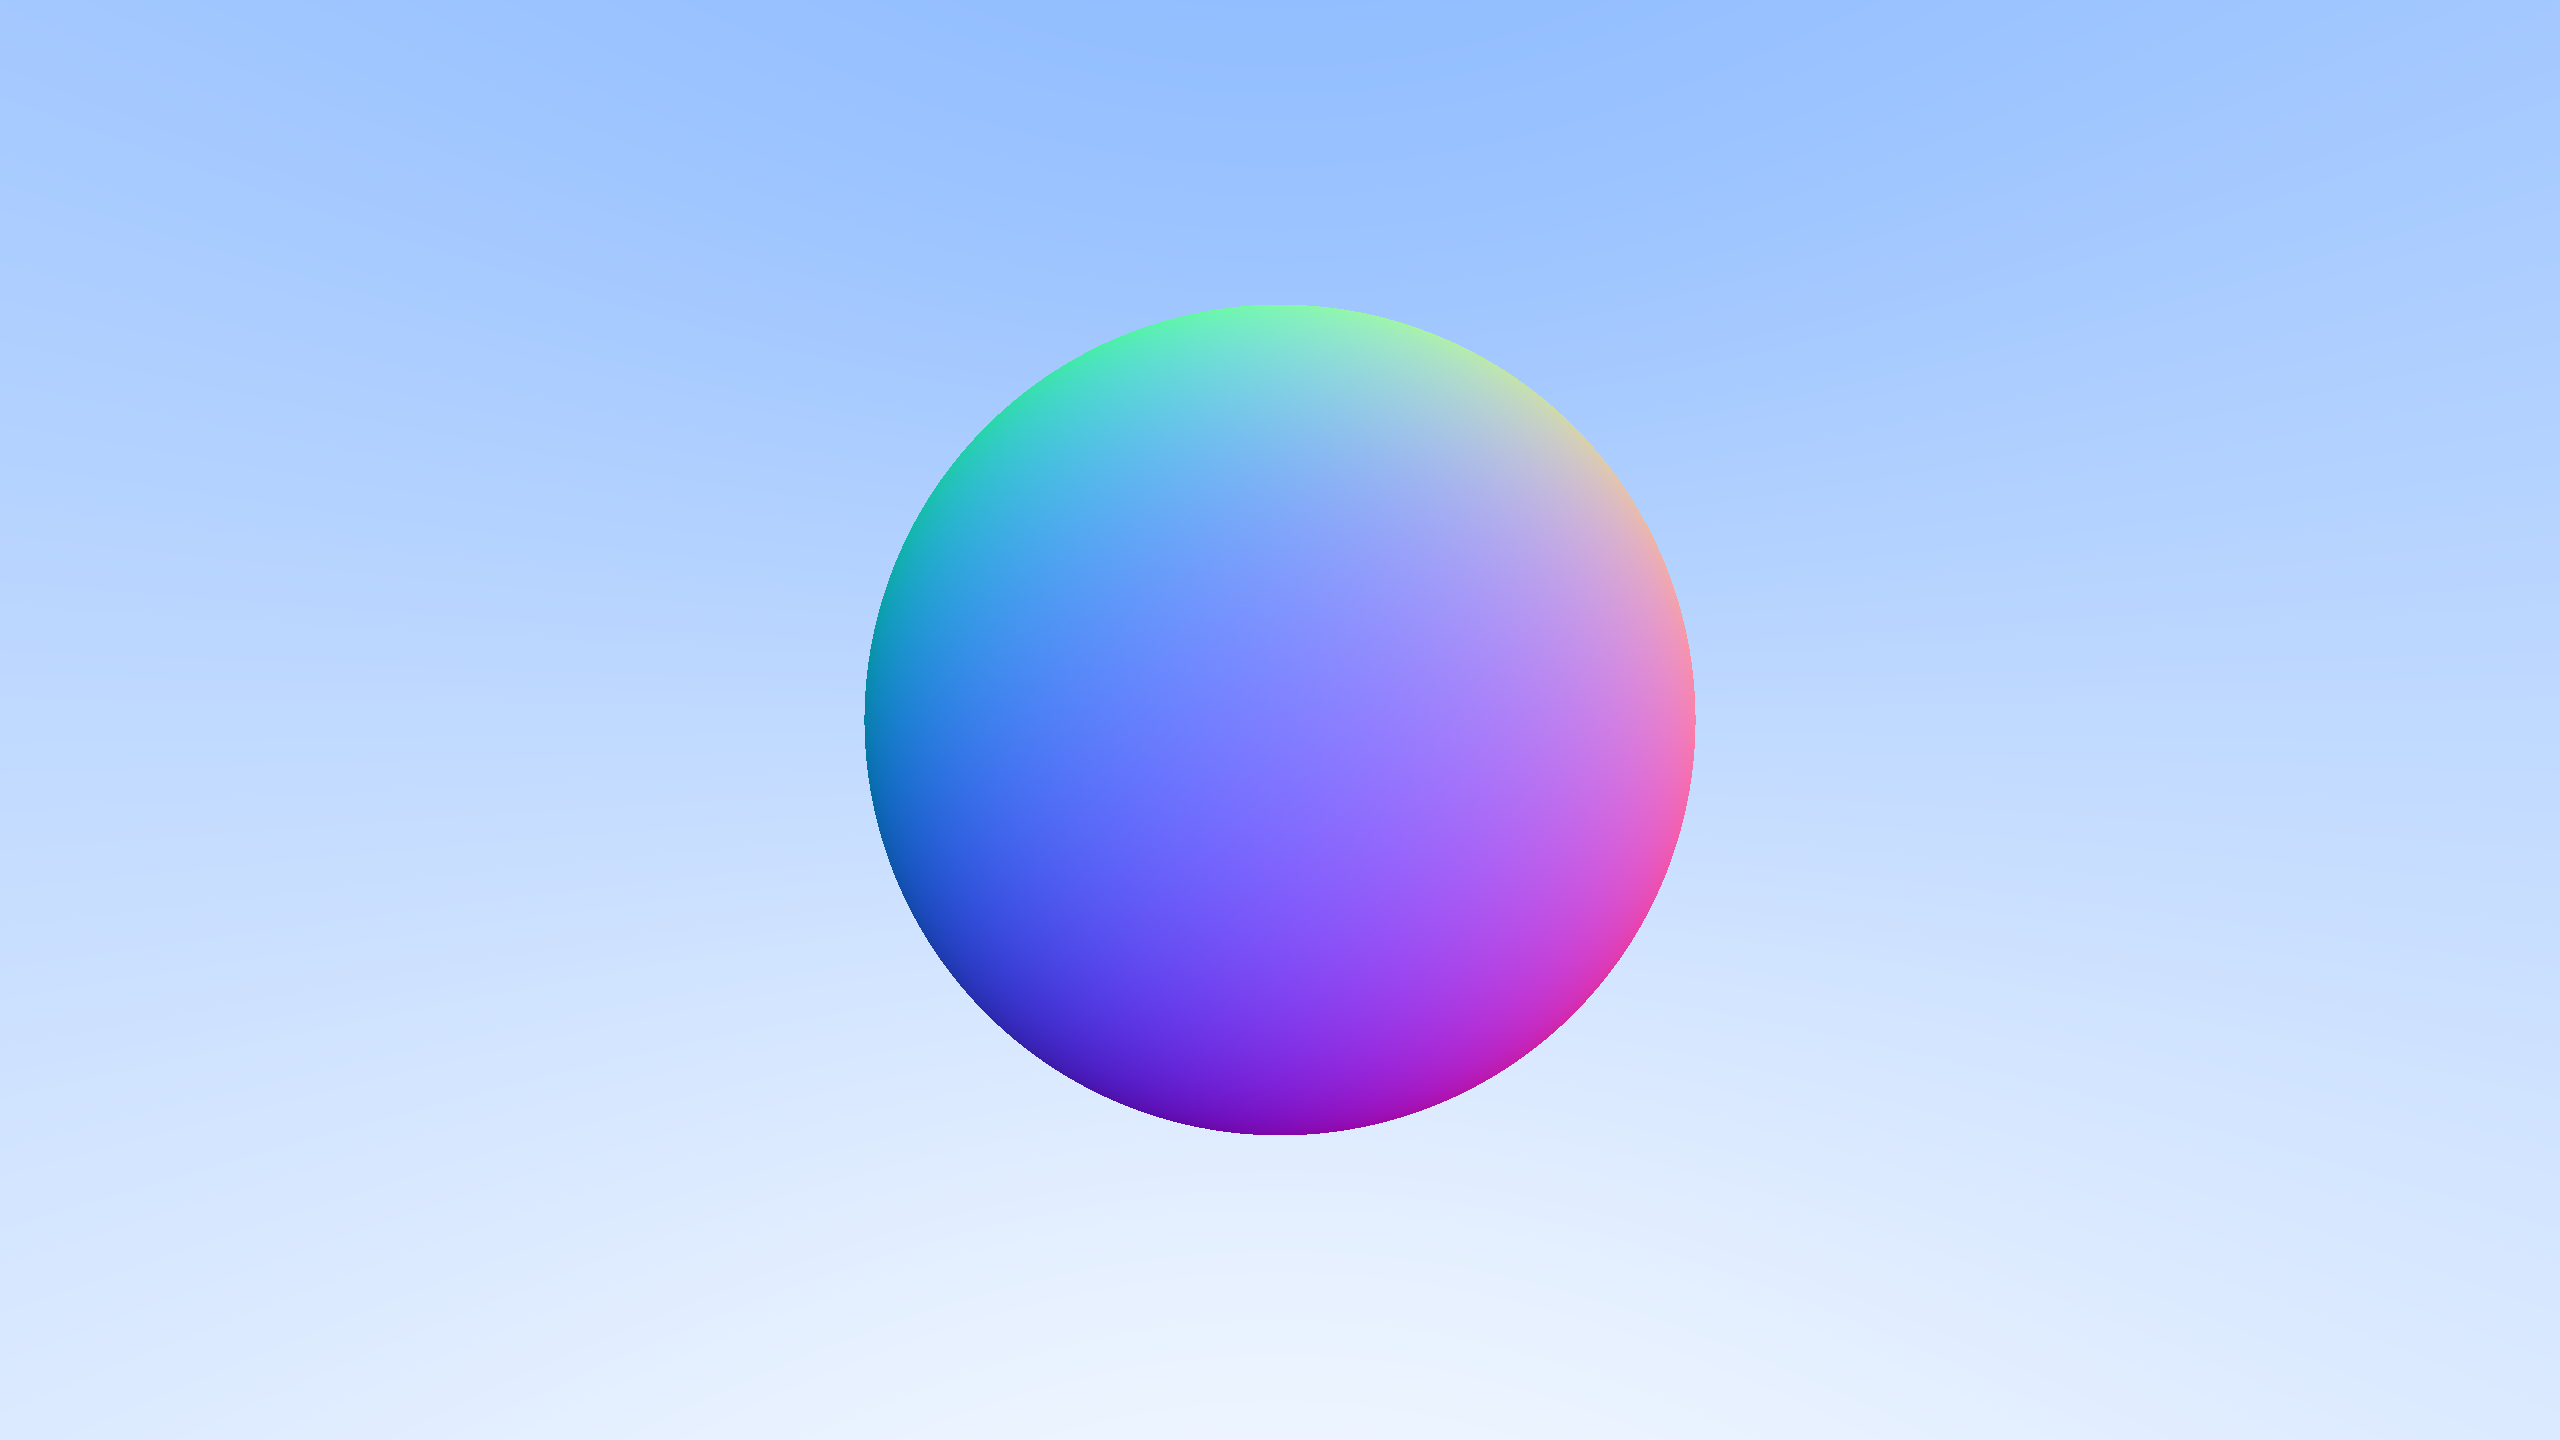
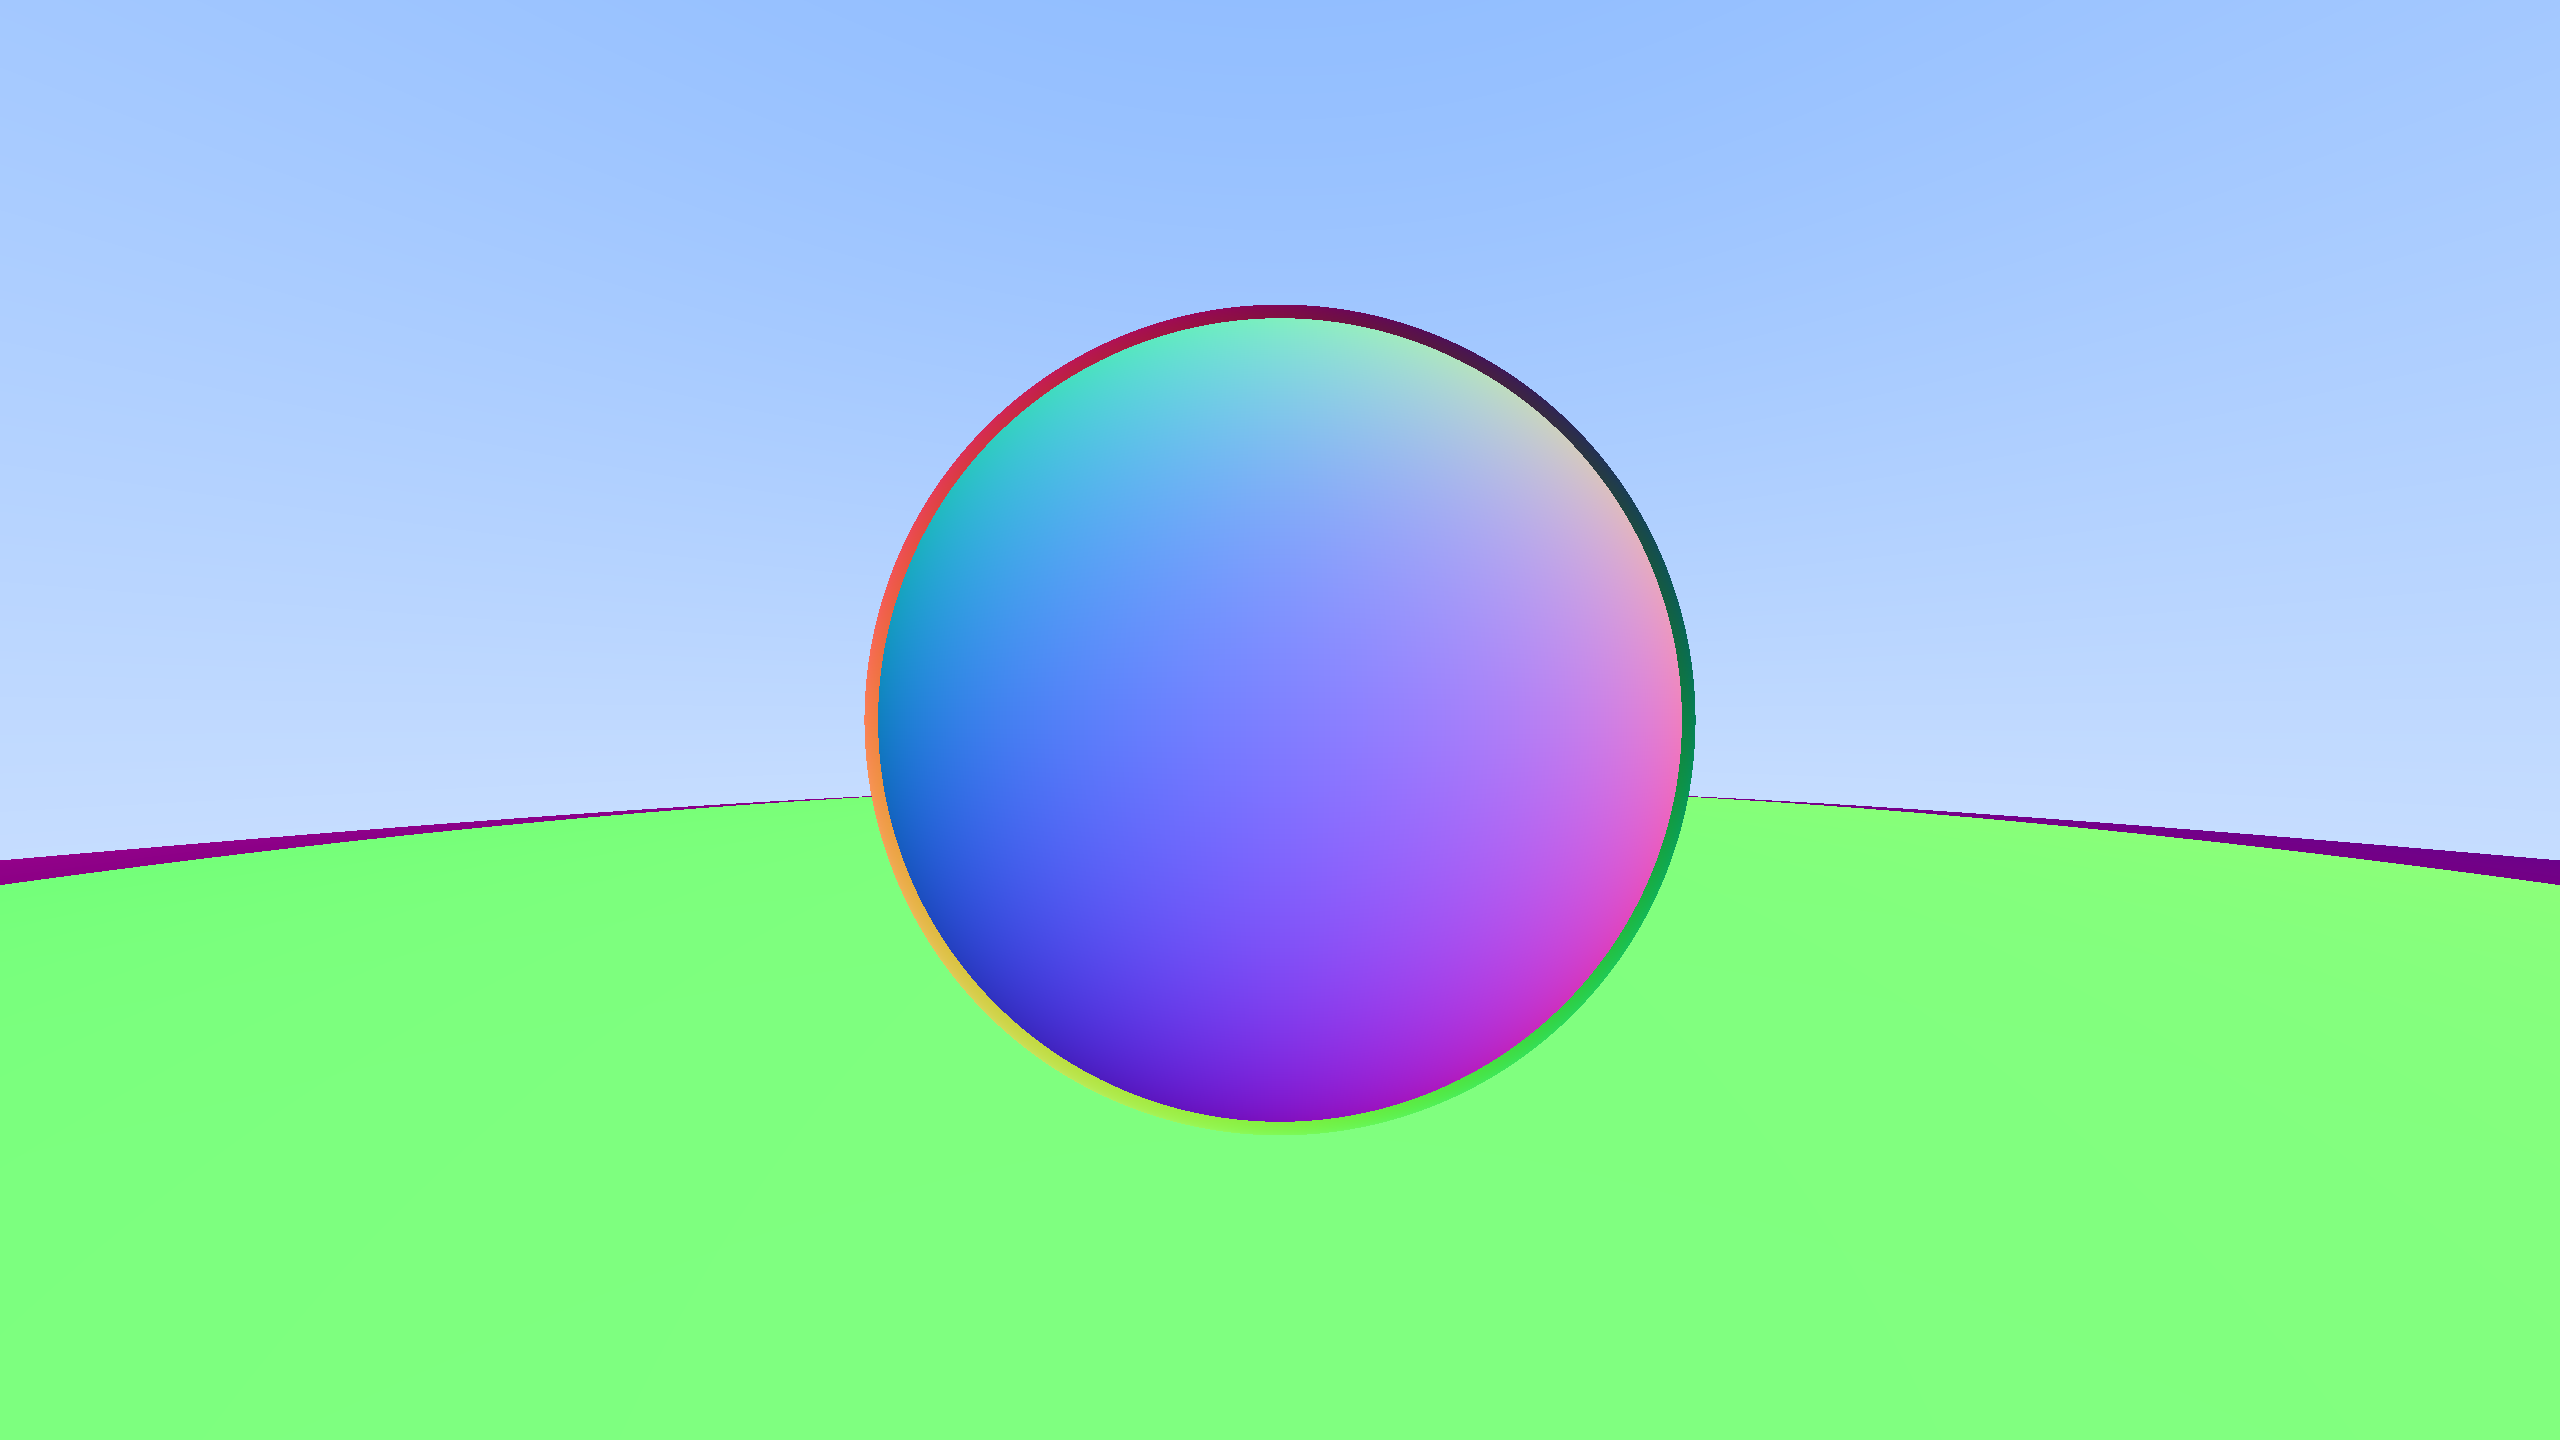
Added a list of objects to test against, added front-back face recognition.

diff --git a/Amarelo/src/Shading/color.cpp b/Amarelo/src/Shading/color.cpp
@@ -1,48 +1,24 @@
 #include "color.h"
-#include <algorithm>
+#include <Physics/Shapes/Sphere.h>
 
-vec3<uint8_t> Color::CalculateRayColor(const Ray& ray)
+#include <Math/generalmath.h>
+
+vec3<uint8_t> Color::CalculateRayColor(const Ray& ray, const HittableList& sceneObjects)
 {
-	float t = HitSphere(vec3<float>(0.0f, 0.0f, -1.0f), 0.5f, ray);
-
-	if (t > 0.0f)
+	HitRecord result;
+	
+	if (sceneObjects.Hit(ray, 0, Amrl::g_AmrlInfinity, result))
 	{
-		vec3<float> normal = (ray.At(t) - vec3<float>(0.0f, 0.0f, -1.0f)).Normalized();
-		
-		vec3<float> normalColor = 0.5f * vec3<float>(normal.x + 1, normal.y + 1, normal.z + 1);
-		return ConvertColor(normalColor);
+			vec3<float> normalColor = result.surfaceNormal;
+			normalColor = vec3<float>(normalColor.x + 1, normalColor.y + 1, normalColor.z + 1) * 0.5f;
+			return ConvertColor(normalColor);
 	}
 	
-
 	vec3<float> unitDirection = ray.GetDirection().Normalized();
-
 	float gradientPosition = (unitDirection.y + 1.0f) / 2.0f;
-
 	vec3<float> gradientColor = vec3<float>::lerp({ 1.0f, 1.0f, 1.0f }, { 0.5f, 0.7f, 1.0f }, gradientPosition);
+
 	return ConvertColor(gradientColor);
-
-}
-
-float Color::HitSphere(const vec3<float>& center, float radius, const Ray& ray)
-{
-	vec3<float> RayOrigin = ray.GetOrigin();
-	vec3<float> RayDirection = ray.GetDirection().Normalized();
-	
-	float t = vec3<float>::Dot(center - RayOrigin, RayDirection);
-	vec3<float> pointVector = RayOrigin + RayDirection * t;
-	
-	float y = vec3<float>::Length(center - pointVector);
-
-	if (y < radius)
-	{
-		float x = sqrt(radius*radius - y * y);
-		float p1 = t - x;
-		float p2 = t + x;
-
-		return std::min(p1, p2);
-	}
-
-	return 0.0f;
 }
 
 vec3<uint8_t> Color::ConvertColor(const vec3<float>& pixelColor)

diff --git a/Amarelo/src/main.cpp b/Amarelo/src/main.cpp
@@ -6,6 +6,10 @@
 #include "Rendering/Viewport.h"
 #include "Rendering/Camera.h"
 #include "Rendering/Viewport.h"
+#include <Physics/Shapes/Sphere.h>
+
+//just do speed up dev process
+#include <windows.h>
 
 int main()
 {
@@ -21,6 +25,9 @@ int main()
 	Viewport viewport(2.0f, aspectRatio * 2.0f, 1.0f);
 	Camera camera(vec3<float>(0.0f), &viewport);
 
+	HittableList sceneObjs;
+	sceneObjs.Add(std::make_shared<Sphere>(vec3<float>(0.0f, -100.5f, -1.0f), 100.0f));
+	sceneObjs.Add(std::make_shared<Sphere>(vec3<float>(0.0f, 0.0f, -1.0f), 0.5f));
 
 	for (int32_t y = imageHeight - 1; y >= 0; y--)
 	{
@@ -36,13 +43,16 @@ int main()
 				camera.GetCameraViewport().GetHorizontal()  + v * 
 				camera.GetCameraViewport().GetVertical() - camera.GetCameraPosition());
 
-				vec3<uint8_t> finalColor = Color::CalculateRayColor(ray);
+				vec3<uint8_t> finalColor = Color::CalculateRayColor(ray, sceneObjs);
 				resultImage.SetPixel(finalColor);
 		}
 	}
 
 	resultImage.Flush();
 	std::cout << "\nDone!" << std::endl;
+
+	//just do speed up dev process
+	ShellExecute(NULL, "open", "resultImage.png", NULL, NULL, SW_SHOWDEFAULT);
 
 	return 0;
 }

diff --git a/Amarelo/src/Physics/Shapes/Sphere.cpp b/Amarelo/src/Physics/Shapes/Sphere.cpp
@@ -1,0 +1,39 @@
+#include "Sphere.h"
+
+#include <algorithm>
+
+bool Sphere::Hit(const Ray& ray, const double AABB_min, const double AABB_max, HitRecord& rec) const
+{
+	vec3<float> RayOrigin = ray.GetOrigin();
+	vec3<float> RayDirection = ray.GetDirection().Normalized();
+
+	float t = vec3<float>::Dot(m_Center - RayOrigin, RayDirection);
+	vec3<float> pointVector = RayOrigin + RayDirection * t;
+
+	float y = vec3<float>::Length(m_Center - pointVector);
+
+	if (y < m_Radius)
+	{
+		float x = sqrt(m_Radius * m_Radius - y * y);
+		float p1 = t - x;
+		float p2 = t + x;
+
+		
+		if (p1 > AABB_min && p1 < AABB_max)
+			rec.t = p1;
+		else if (p2 > AABB_min && p2 < AABB_max)
+			rec.t = p2;
+		else
+			return false;
+
+		
+	//	rec.hitLocation = ray.At(rec.t);
+		rec.hitLocation = ray.At(rec.t);
+		vec3 outwardNormal = (rec.hitLocation - m_Center).Normalized();
+		rec.SetFaceNormal(ray, outwardNormal);
+
+		return true;
+	}
+
+	return false;
+}

diff --git a/Amarelo/src/Math/generalmath.h b/Amarelo/src/Math/generalmath.h
@@ -1,10 +1,15 @@
 #pragma once
 #include <stdint.h>
 #include <cmath>
-#define GM_PI 3.14159265359
+#include <limits>
 
-namespace MC
+
+namespace Amrl
 {
+
+	const double g_AmrlPI = 3.1415926535897932385;
+	const double g_AmrlInfinity = std::numeric_limits<double>::infinity();
+
 	inline int clamp(const int min, const int max, const int val)
 	{
 		int aux = 0;
@@ -35,12 +40,12 @@ namespace MC
 
 	inline float toDegrees(const float radians)
 	{
-		return (float)(radians * (180.0f / GM_PI));
+		return (float)(radians * (180.0f / g_AmrlPI));
 	}
 
 	inline float toRadians(const float degrees)
 	{
-		return (float)(degrees * (GM_PI / 180.0f));
+		return (float)(degrees * (g_AmrlPI / 180.0f));
 	}
 
 	inline float tan(const float angle)
@@ -89,7 +94,6 @@ namespace MC
 	{
 		return !mod ? x : x - mod * static_cast<long long>(x / mod);
 	}
-
-
-
 }
+
+

diff --git a/Amarelo/src/Physics/HittableList.h b/Amarelo/src/Physics/HittableList.h
@@ -1,0 +1,25 @@
+#pragma once
+
+#include "Hittable.h"	
+#include <memory>
+#include <vector>
+
+
+class HittableList
+{
+public:
+	HittableList() = default;
+	HittableList(std::shared_ptr<Hittable> obj) { Add(obj); }
+
+	void Clear() { m_Hittables.clear(); }
+	void Add(std::shared_ptr<Hittable> obj) { m_Hittables.push_back(obj); }
+	
+	bool Hit(const Ray& ray, double rayMin, double rayMax, HitRecord& result) const;
+
+
+
+
+
+private:
+	std::vector<std::shared_ptr<Hittable>> m_Hittables;
+};

diff --git a/Amarelo/src/Physics/HittableList.cpp b/Amarelo/src/Physics/HittableList.cpp
@@ -1,0 +1,23 @@
+#include "HittableList.h"
+
+
+bool HittableList::Hit(const Ray& ray, double rayMin, double rayMax, HitRecord& result) const
+{
+	HitRecord tempResult;
+	bool hitAnything = false;
+	
+	double closestHit = rayMax;
+
+	for (const std::shared_ptr<Hittable>& object : m_Hittables)
+	{
+		if (object->Hit(ray, rayMin, rayMax, tempResult))
+		{
+			hitAnything = true;
+			closestHit = tempResult.t;
+			result = tempResult;
+		}
+	}
+	
+	return hitAnything;
+
+}

diff --git a/Amarelo/src/Shading/color.h b/Amarelo/src/Shading/color.h
@@ -1,10 +1,10 @@
 #pragma once
 #include "Utils/Image.h"
 #include "Physics/Ray.h"
+#include <Physics/HittableList.h>
 
 struct Color
 {
-	static vec3<uint8_t> CalculateRayColor(const Ray& ray);
-	static float HitSphere(const vec3<float>& center, float radius, const Ray& ray);
+	static vec3<uint8_t> CalculateRayColor(const Ray& ray, const HittableList& sceneObjects);
 	static vec3<uint8_t> ConvertColor(const vec3<float>& pixelColor);
 };

diff --git a/Amarelo/src/Physics/Shapes/Sphere.h b/Amarelo/src/Physics/Shapes/Sphere.h
@@ -1,0 +1,15 @@
+#include <Physics/Hittable.h>
+
+
+class Sphere : public Hittable
+{
+public:
+	Sphere() = delete;
+	Sphere(vec3<float>& center, double radius) : m_Center(center), m_Radius(radius) {};
+
+	bool Hit(const Ray& ray, const double AABB_min, const double AABB_max, HitRecord& rec) const override;
+
+private:
+	vec3<float> m_Center;
+	float m_Radius;
+};

diff --git a/Amarelo/src/Physics/HitRecord.h b/Amarelo/src/Physics/HitRecord.h
@@ -1,0 +1,17 @@
+#pragma once
+
+#include <Math/vec3.h>
+#include "Ray.h"
+
+struct HitRecord
+{
+	HitRecord() : hitLocation(0.0f, 0.0f, 0.0f), surfaceNormal(0.0f, 0.0f, 0.0f), t(0.0f) {};
+	
+	vec3<float> hitLocation;
+	vec3<float> surfaceNormal;
+	bool frontFace;
+
+	void SetFaceNormal(const Ray& ray, const vec3<float>& outwardNormal);
+
+	double t; 
+};

diff --git a/Amarelo/src/Physics/HitRecord.cpp b/Amarelo/src/Physics/HitRecord.cpp
@@ -1,0 +1,9 @@
+#include "HitRecord.h"
+#include "Ray.h"
+
+void HitRecord::SetFaceNormal(const Ray& ray, const vec3<float>& outwardNormal)
+{
+	frontFace = ray.GetDirection().Dot(outwardNormal)  < 0.0f;
+	surfaceNormal = frontFace ? outwardNormal : vec3(-outwardNormal.x, -outwardNormal.y, -outwardNormal.z);
+}
+

diff --git a/Amarelo/src/Physics/Hittable.h b/Amarelo/src/Physics/Hittable.h
@@ -1,0 +1,11 @@
+#pragma once
+
+#include "HitRecord.h"
+#include <Physics/Ray.h>
+
+class Hittable
+{
+public: 
+	virtual ~Hittable() = default;
+	virtual bool Hit(const Ray& ray, const double AABB_min, const double AABB_max, HitRecord& rec) const = 0;
+};

diff --git a/Amarelo/src/Math/vec3.h b/Amarelo/src/Math/vec3.h
@@ -136,6 +136,11 @@ struct vec3
 		return *this;
 	}
 
+	vec3<T> operator-()
+	{
+		return vec3(-x, -y, -z);
+	}
+
 	vec3<T>& multiply(const vec3<T>& other)
 	{
 		x *= other.x;
